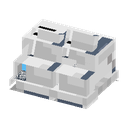
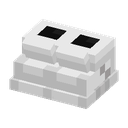
Fix shoe model rotations and fractional box UV mapping

diff --git a/src/test/java/com/axial/cosmetics/client/ShoeMeshTest.java b/src/test/java/com/axial/cosmetics/client/ShoeMeshTest.java
@@ -1,0 +1,67 @@
+package com.axial.cosmetics.client;
+
+import java.util.*;
+import net.minecraft.client.model.ModelPart;
+import net.minecraft.client.util.math.MatrixStack;
+import org.joml.Matrix4f;
+import org.joml.Vector3f;
+import org.junit.jupiter.api.Test;
+import static org.junit.jupiter.api.Assertions.*;
+
+class ShoeMeshTest {
+    @Test void bakedShoesMatchBlockbenchCoordinatesForEveryCubeCorner() {
+        for(String id:List.of("white_sneakers","white_kicks")) {
+            var actual=new ArrayList<Vector3f>();
+            WhiteKicksFeatureRenderer.model(id).collectVertices(new MatrixStack(),p->actual.add(new Vector3f(p)));
+            var expected=blockbenchCorners(WhiteKicksGeometry.load(id));
+            for(var point:expected)assertTrue(actual.stream().anyMatch(p->p.distance(point)<.00001f),id+" missing corner "+point);
+            for(var point:actual)assertTrue(expected.stream().anyMatch(p->p.distance(point)<.00001f),id+" unexpected corner "+point);
+        }
+    }
+
+    @Test void fractionalSoleKeepsItsSizeButUsesWholeTexelBoxUvSpans() {
+        var found=new ArrayList<ModelPart.Cuboid>();
+        WhiteKicksFeatureRenderer.model("white_sneakers").forEachCuboid(new MatrixStack(),(entry,path,index,cube)->{
+            if(path.endsWith("/armorLeftBoot/cube2"))found.add(cube);
+        });
+        assertEquals(1,found.size());
+        var us=new TreeSet<Float>();var vs=new TreeSet<Float>();
+        for(var side:found.getFirst().sides)for(var vertex:side.vertices()) {
+            us.add(vertex.u()*32);vs.add(vertex.v()*32);
+        }
+        assertEquals(new TreeSet<>(List.of(0f,7f,12f,17f,19f,24f)),us);
+        assertEquals(new TreeSet<>(List.of(0f,7f,8f)),vs);
+    }
+
+    /** Independent editor-space reference: Bedrock loader mirrors X and negates
+     * X/Y Euler angles; a half-turn around Z converts editor space to Java. */
+    private static List<Vector3f> blockbenchCorners(List<WhiteKicksGeometry.Bone> bones) {
+        var matrices=new HashMap<String,Matrix4f>();
+        var pivots=new HashMap<String,Vector3f>();
+        var result=new ArrayList<Vector3f>();
+        for(var bone:bones) {
+            var pivot=editor(bone.pivot());
+            var parent=bone.parent();
+            var matrix=parent==null?new Matrix4f():new Matrix4f(matrices.get(parent));
+            matrix.translate(new Vector3f(pivot).sub(parent==null?new Vector3f():pivots.get(parent)));
+            rotateEditor(matrix,bone.rotation());
+            matrices.put(bone.name(),matrix);pivots.put(bone.name(),pivot);
+            for(var cube:bone.cubes()) {
+                var cp=editor(cube.pivot());
+                var transform=new Matrix4f(matrix).translate(new Vector3f(cp).sub(pivot));
+                rotateEditor(transform,cube.rotation());
+                for(int x=0;x<2;x++)for(int y=0;y<2;y++)for(int z=0;z<2;z++) {
+                    var point=new Vector3f(-cube.origin().x()-x*cube.size().x(),
+                            cube.origin().y()+y*cube.size().y(),cube.origin().z()+z*cube.size().z()).sub(cp);
+                    transform.transformPosition(point);
+                    result.add(new Vector3f(-point.x,24-point.y,point.z).div(16));
+                }
+            }
+        }
+        return result;
+    }
+    private static Vector3f editor(WhiteKicksGeometry.Vec p){return new Vector3f(-p.x(),p.y(),p.z());}
+    private static void rotateEditor(Matrix4f matrix,WhiteKicksGeometry.Vec r) {
+        matrix.rotateZ((float)Math.toRadians(r.z())).rotateY((float)Math.toRadians(-r.y())).rotateX((float)Math.toRadians(-r.x()));
+    }
+}

diff --git a/tools/generate_white_kicks_preview.py b/tools/generate_white_kicks_preview.py
@@ -22,7 +22,7 @@ def translate(p):
     matrix=np.eye(4);matrix[:3,3]=p;return matrix
 
 def rotation(p):
-    x,y,z=np.radians([-p[0],p[1],-p[2]])
+    x,y,z=np.radians(p)
     rx=np.array([[1,0,0],[0,math.cos(x),-math.sin(x)],[0,math.sin(x),math.cos(x)]])
     ry=np.array([[math.cos(y),0,math.sin(y)],[0,1,0],[-math.sin(y),0,math.cos(y)]])
     rz=np.array([[math.cos(z),-math.sin(z),0],[math.sin(z),math.cos(z),0],[0,0,1]])
@@ -35,14 +35,16 @@ for bone in geo['bones']:
     for cube in bone.get('cubes',[]):
         cp=cube.get('pivot',bone.get('pivot',[0,0,0]));cm=matrix@translate(position(cp)-pivot)@rotation(cube.get('rotation',[0,0,0]))
         x,y,z=cube['origin'];w,h,d=cube['size'];u,v=cube['uv']
+        # Bedrock box UVs use integer texel spans even for fractional geometry.
+        tw,th,td=[math.floor(value+1e-7) for value in (w,h,d)]
         # Match ModelPart.Cuboid's vertex order and box UV layout. The source
         # coordinates below remain Bedrock Y-up until the bone transforms apply.
-        raw=[([(x,y+h,z+d),(x+w,y+h,z+d),(x+w,y,z+d),(x,y,z+d)],(u+d+w+d,v+d,u+d+w+d+w,v+d+h),.85),
-             ([(x+w,y+h,z),(x,y+h,z),(x,y,z),(x+w,y,z)],(u+d,v+d,u+d+w,v+d+h),1),
-             ([(x+w,y+h,z+d),(x+w,y+h,z),(x+w,y,z),(x+w,y,z+d)],(u+d+w,v+d,u+d+w+d,v+d+h),.9),
-             ([(x,y+h,z),(x,y+h,z+d),(x,y,z+d),(x,y,z)],(u,v+d,u+d,v+d+h),.92),
-             ([(x+w,y+h,z+d),(x,y+h,z+d),(x,y+h,z),(x+w,y+h,z)],(u+d,v,u+d+w,v+d),1),
-             ([(x+w,y,z),(x,y,z),(x,y,z+d),(x+w,y,z+d)],(u+d+w,v+d,u+d+w+w,v),.7)]
+        raw=[([(x,y+h,z+d),(x+w,y+h,z+d),(x+w,y,z+d),(x,y,z+d)],(u+td+tw+td,v+td,u+td+tw+td+tw,v+td+th),.85),
+             ([(x+w,y+h,z),(x,y+h,z),(x,y,z),(x+w,y,z)],(u+td,v+td,u+td+tw,v+td+th),1),
+             ([(x+w,y+h,z+d),(x+w,y+h,z),(x+w,y,z),(x+w,y,z+d)],(u+td+tw,v+td,u+td+tw+td,v+td+th),.9),
+             ([(x,y+h,z),(x,y+h,z+d),(x,y,z+d),(x,y,z)],(u,v+td,u+td,v+td+th),.92),
+             ([(x+w,y+h,z+d),(x,y+h,z+d),(x,y+h,z),(x+w,y+h,z)],(u+td,v,u+td+tw,v+td),1),
+             ([(x+w,y,z),(x,y,z),(x,y,z+d),(x+w,y,z+d)],(u+td+tw,v+td,u+td+tw+tw,v),.7)]
         for points,uv,shade in raw:
             transformed=[]
             for p in points:

diff --git a/src/main/java/com/axial/cosmetics/client/WhiteKicksFeatureRenderer.java b/src/main/java/com/axial/cosmetics/client/WhiteKicksFeatureRenderer.java
@@ -43,7 +43,7 @@ public final class WhiteKicksFeatureRenderer extends FeatureRenderer<PlayerEntit
         @Override public void setAngles(PlayerEntityRenderState state){}
     }
     static ModelPart model(){return model("white_kicks");}
-    private static ModelPart model(String id){
+    static ModelPart model(String id){
         var data=new ModelData();var bones=WhiteKicksGeometry.load(id);
         var parts=new HashMap<String,ModelPartData>();var pivots=new HashMap<String,WhiteKicksGeometry.Vec>();
         for(String side:List.of("left","right")){
@@ -59,10 +59,10 @@ public final class WhiteKicksFeatureRenderer extends FeatureRenderer<PlayerEntit
             parts.put(bone.name(),part);pivots.put(bone.name(),pivot);
             int index=0;
             for(var cube:bone.cubes()){
-                var local=cube.localOrigin();var size=cube.size();
+                var local=cube.meshOrigin();var size=cube.uvSize();var scale=cube.meshScale();
                 var origin=WhiteKicksGeometry.position(cube.pivot()).subtract(pivot);var angles=WhiteKicksGeometry.rotation(cube.rotation());
                 part.addChild("cube"+index++,ModelPartBuilder.create().uv(cube.u(),cube.v()).cuboid(local.x(),local.y(),local.z(),size.x(),size.y(),size.z()),
-                        ModelTransform.of(origin.x(),origin.y(),origin.z(),angles.x(),angles.y(),angles.z()));
+                        new ModelTransform(origin.x(),origin.y(),origin.z(),angles.x(),angles.y(),angles.z(),scale.x(),scale.y(),scale.z()));
             }
         }
         return TexturedModelData.of(data,32,32).createModel();

diff --git a/src/main/java/com/axial/cosmetics/client/WhiteKicksGeometry.java b/src/main/java/com/axial/cosmetics/client/WhiteKicksGeometry.java
@@ -12,6 +12,11 @@ final class WhiteKicksGeometry {
     }
     record Cube(Vec origin,Vec size,Vec pivot,Vec rotation,int u,int v) {
         Vec localOrigin(){return new Vec(origin.x-pivot.x,pivot.y-origin.y-size.y,origin.z-pivot.z);}
+        // Bedrock's box UV layout floors dimensions without rounding the geometry.
+        Vec uvSize(){return new Vec(texels(size.x),texels(size.y),texels(size.z));}
+        Vec meshScale(){var uv=uvSize();return new Vec(size.x/uv.x,size.y/uv.y,size.z/uv.z);}
+        Vec meshOrigin(){var local=localOrigin();var scale=meshScale();return new Vec(local.x/scale.x,local.y/scale.y,local.z/scale.z);}
+        private static float texels(float size){return Math.max(1,(float)Math.floor(size+1e-7));}
     }
     record Bone(String name,String parent,Vec pivot,Vec rotation,List<Cube> cubes) {}
     private WhiteKicksGeometry() {}
@@ -39,5 +44,7 @@ final class WhiteKicksGeometry {
     }
     /** Convert Y-up Bedrock coordinates to the player's Y-down model space. */
     static Vec position(Vec value){return new Vec(value.x,24-value.y,value.z);}
-    static Vec rotation(Vec degrees){return new Vec((float)Math.toRadians(-degrees.x),(float)Math.toRadians(degrees.y),(float)Math.toRadians(-degrees.z));}
+    // Blockbench imports Bedrock rotations as (-X,-Y,+Z) in its X-reflected
+    // space. Turning that space into Java's Y-down space gives (+X,+Y,+Z).
+    static Vec rotation(Vec degrees){return new Vec((float)Math.toRadians(degrees.x),(float)Math.toRadians(degrees.y),(float)Math.toRadians(degrees.z));}
 }

diff --git a/src/test/java/com/axial/cosmetics/client/WhiteKicksTest.java b/src/test/java/com/axial/cosmetics/client/WhiteKicksTest.java
@@ -18,7 +18,7 @@ class WhiteKicksTest {
         var boot=left;
         var sole=boot.cubes().get(1);assertEquals(new WhiteKicksGeometry.Vec(5f,1.125f,7.5f),sole.size());
         var tongue=boot.cubes().get(3);assertEquals(22.5f,tongue.rotation().x());
-        assertEquals((float)Math.toRadians(-22.5),WhiteKicksGeometry.rotation(tongue.rotation()).x(),.00001);
+        assertEquals((float)Math.toRadians(22.5),WhiteKicksGeometry.rotation(tongue.rotation()).x(),.00001);
         assertEquals(new WhiteKicksGeometry.Vec(2,12,0),WhiteKicksGeometry.position(new WhiteKicksGeometry.Vec(2,12,0)));
     }
     @Test void textureAndBothThumbnailsArePackagedAtTheirDeclaredSizes() throws Exception {

diff --git a/backend/cosmetics/WHITE_SNEAKERS.md b/backend/cosmetics/WHITE_SNEAKERS.md
@@ -18,7 +18,17 @@ The supplied files are copied unchanged. The shared shoe renderer preserves the
 eight cubes, bone hierarchy, pivots, UVs, fractional dimensions and rotations,
 including the left leg pivot at [2, 3, 0], its 180° Y rotation and the right
 shoe’s authored cube rotations. Both shoes attach beneath the native animated
-leg roots while retaining these model transforms.
+leg roots while retaining these model transforms. Rotation conversion matches
+Blockbench's Bedrock importer: X/Y are negated in editor space, and the conversion
+to Java's Y-down space results in positive X/Y/Z radians. Box UV spans use floored
+integer dimensions, while per-cube mesh scaling retains the exact fractional
+geometry and leaves pivots unchanged. This keeps the tongues and texture layout
+consistent with the authored model.
+
+`ShoeMeshTest` compares every baked shoe corner to an independent Blockbench-space
+transform reference and checks the sole's UV spans. The reference follows
+[Blockbench's Bedrock parser](https://github.com/JannisX11/blockbench/blob/master/js/formats/bedrock/bedrock.js)
+and [cube UV sizing](https://github.com/JannisX11/blockbench/blob/master/js/outliner/types/cube.js).
 
 To regenerate the model thumbnail:
 
